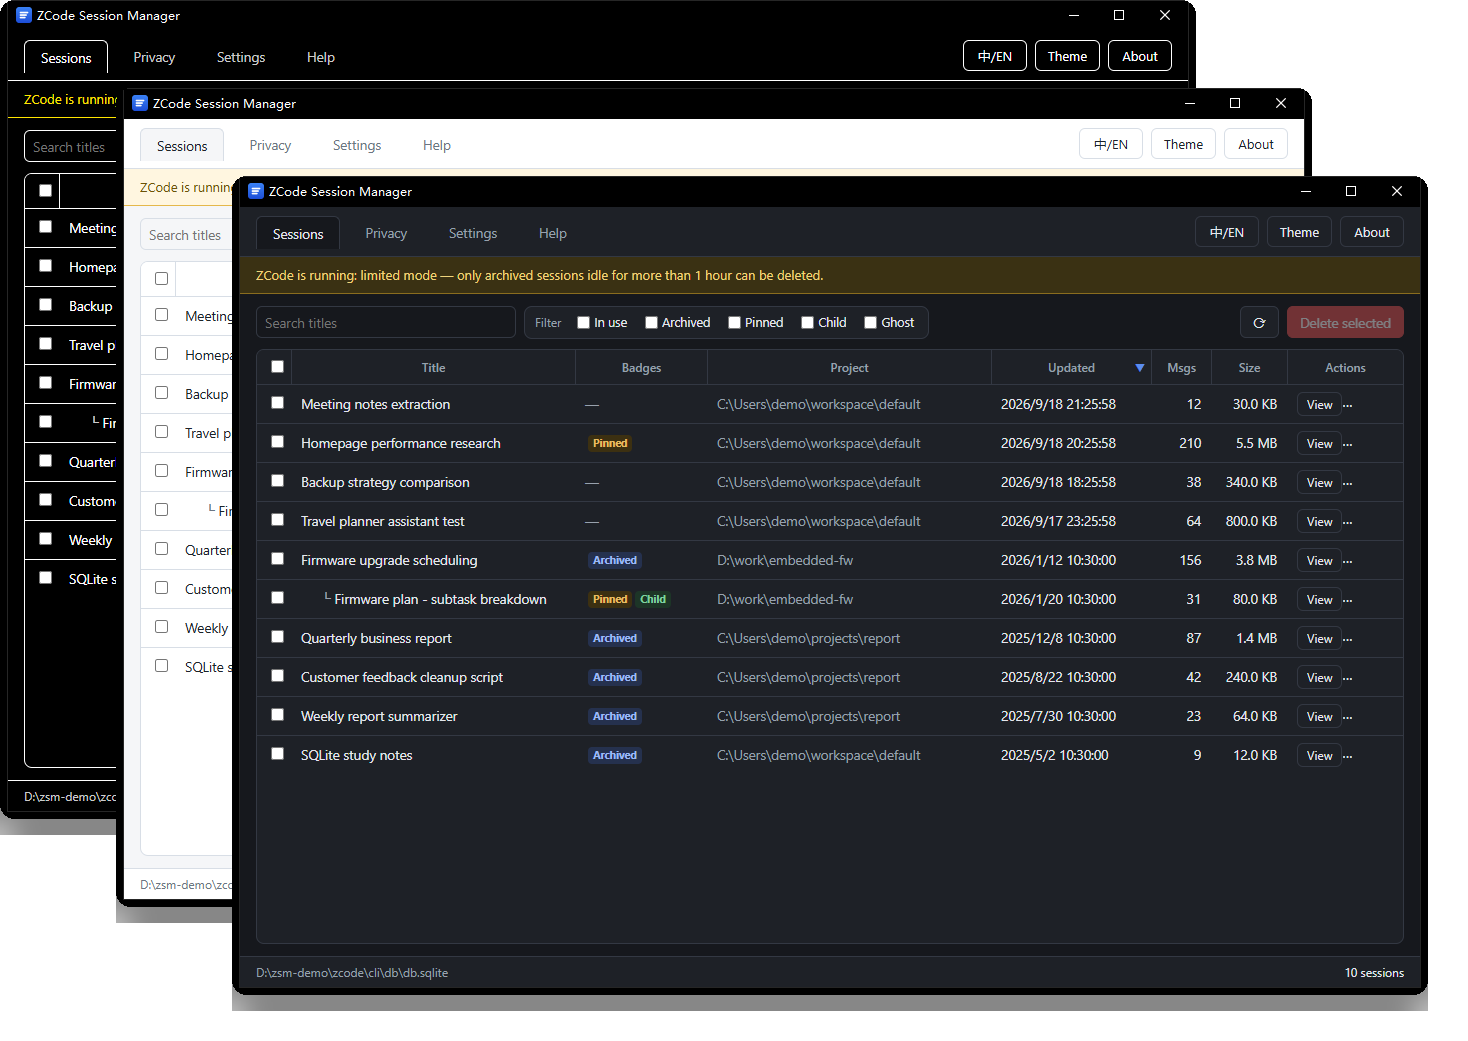
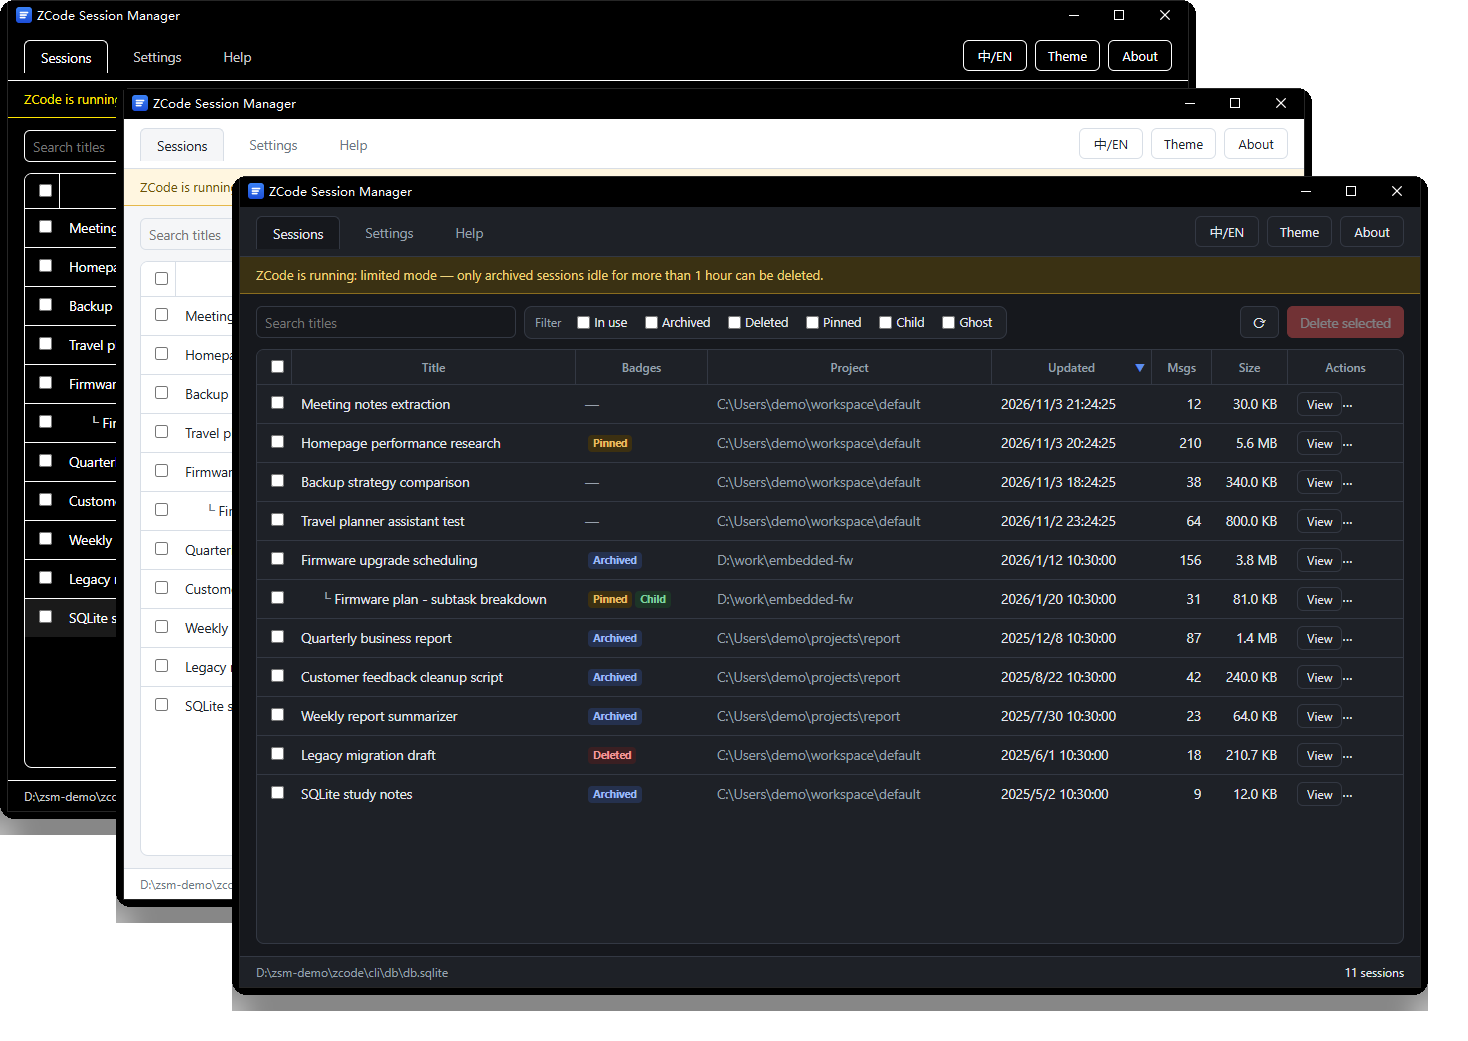
chore: release V1.6.0 — version bump, changelog, refreshed screenshots
Version 1.5.0 -> 1.6.0 (workspace manifest, tauri.conf.json, lockfile).
CHANGELOG [Unreleased] becomes [1.6.0] with the 3.17.2 verification line
and the session_creation_commands fix added to the 3.16.3 cascade fix.

README hero cascades regenerated against the three-tab UI (the old
captures still showed the removed Privacy tab): demo data rebuilt in a
neutral fictional directory, dark/light/hc captured per language, same
transparent 116x88 cascade style. No privacy screenshots anymore.

diff --git a/CHANGELOG.md b/CHANGELOG.md
@@ -3,13 +3,14 @@
 All notable changes to this project are documented in this file. 所有显著变更记录于此。
 The format is based on [Keep a Changelog](https://keepachangelog.com/); tags are `V`-prefixed (`V1.3.0`).
 
-## [Unreleased]
+## [1.6.0] - 2026-11-03
 <!-- zh -->
-**基于 ZCode 3.16.3（桌面 3.16.3.8992 / 实测 2026-11-03）验证会话管理功能。** 工具回归纯会话管理。
+**基于 ZCode 3.17.2（桌面 3.17.2.9661 / 实测 2026-11-03）验证会话管理功能。** 工具回归纯会话管理。
 ### 移除
 - **隐私清理选项卡及其全部后端**（zsm-core::privacy、5 个 Tauri 命令、隐私报告与 CSV 导出、上传相关开关加固）：ZCode 已移除 2026-09 曝光的工作区打包上传行为，该功能失去针对目标，而追逐 ZCode 每个版本目录布局的持续维护成本不成比例。工具回归会话管理主线；`v2\checkpoints\`、遥测标识、日志等非会话数据今后不再由本工具处理。
 ### 修复
 - 删除级联适配 ZCode 3.16.3 新增的 `session_task_link` 表（子代理运行登记的父子会话边）：此前树展开只走 `session.parent_id`，仅通过该表登记的子会话会在删除父会话时被遗漏为孤儿；现在 `session_task_link` 边与 `parent_id` 并列为子会话发现来源，兼容性检查也会对该表的列形状把关（不符即拒绝操作）。
+- 索引清理适配 ZCode 3.17.2 新增的 `session_creation_commands` 表（每会话的创建命令记录，`session_id` 与 `task_id` 同一 id 空间）：删除会话时同步清理，避免残留孤儿行。
 <!-- en -->
 ### Removed
 - **the Privacy cleaner tab and its entire backend** (`zsm-core::privacy`, five Tauri
@@ -25,6 +26,9 @@ The format is based on [Keep a Changelog](https://keepachangelog.com/); tags are
   stranded as an orphan when its parent was deleted. Link edges now sit beside `parent_id`
   as a child-discovery source, and the compatibility check gates the table's column shape
   (operations are refused on a drifted layout).
+- index cleanup covers `session_creation_commands` (added in ZCode 3.17.2, a per-session
+  creation-command log whose `session_id` shares the `task_id` id space): the rows are now
+  removed together with the session instead of lingering as orphans.
 
 ## [1.5.0] - 2026-10-20
 <!-- zh -->
